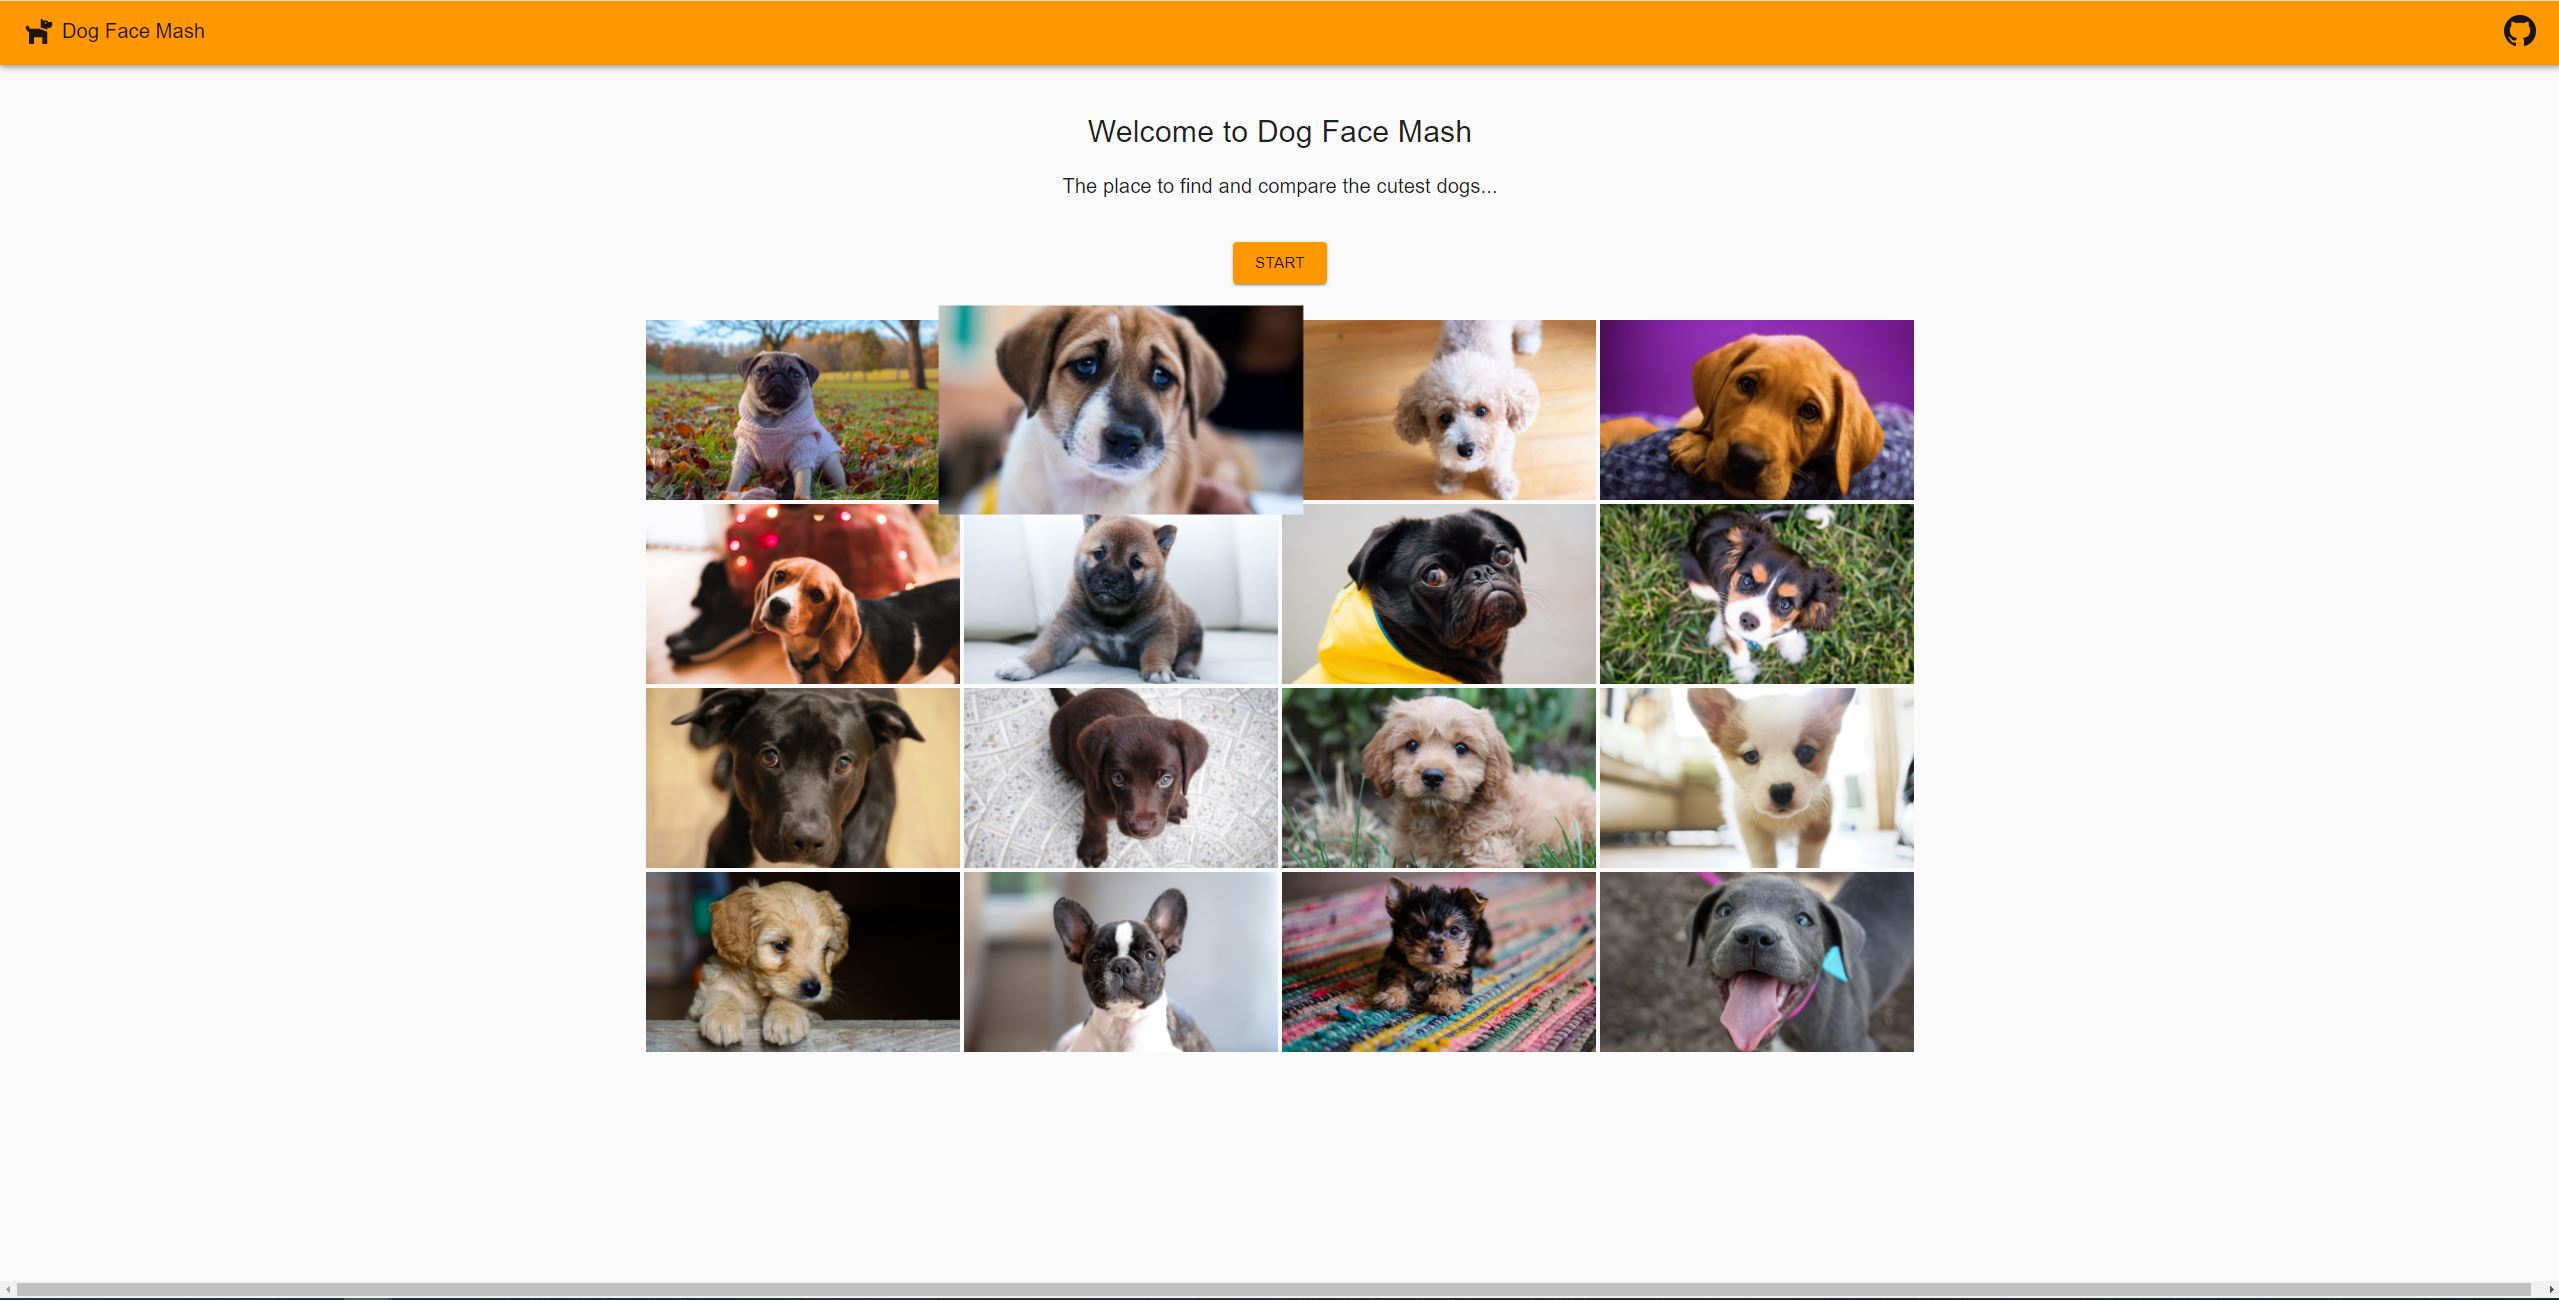
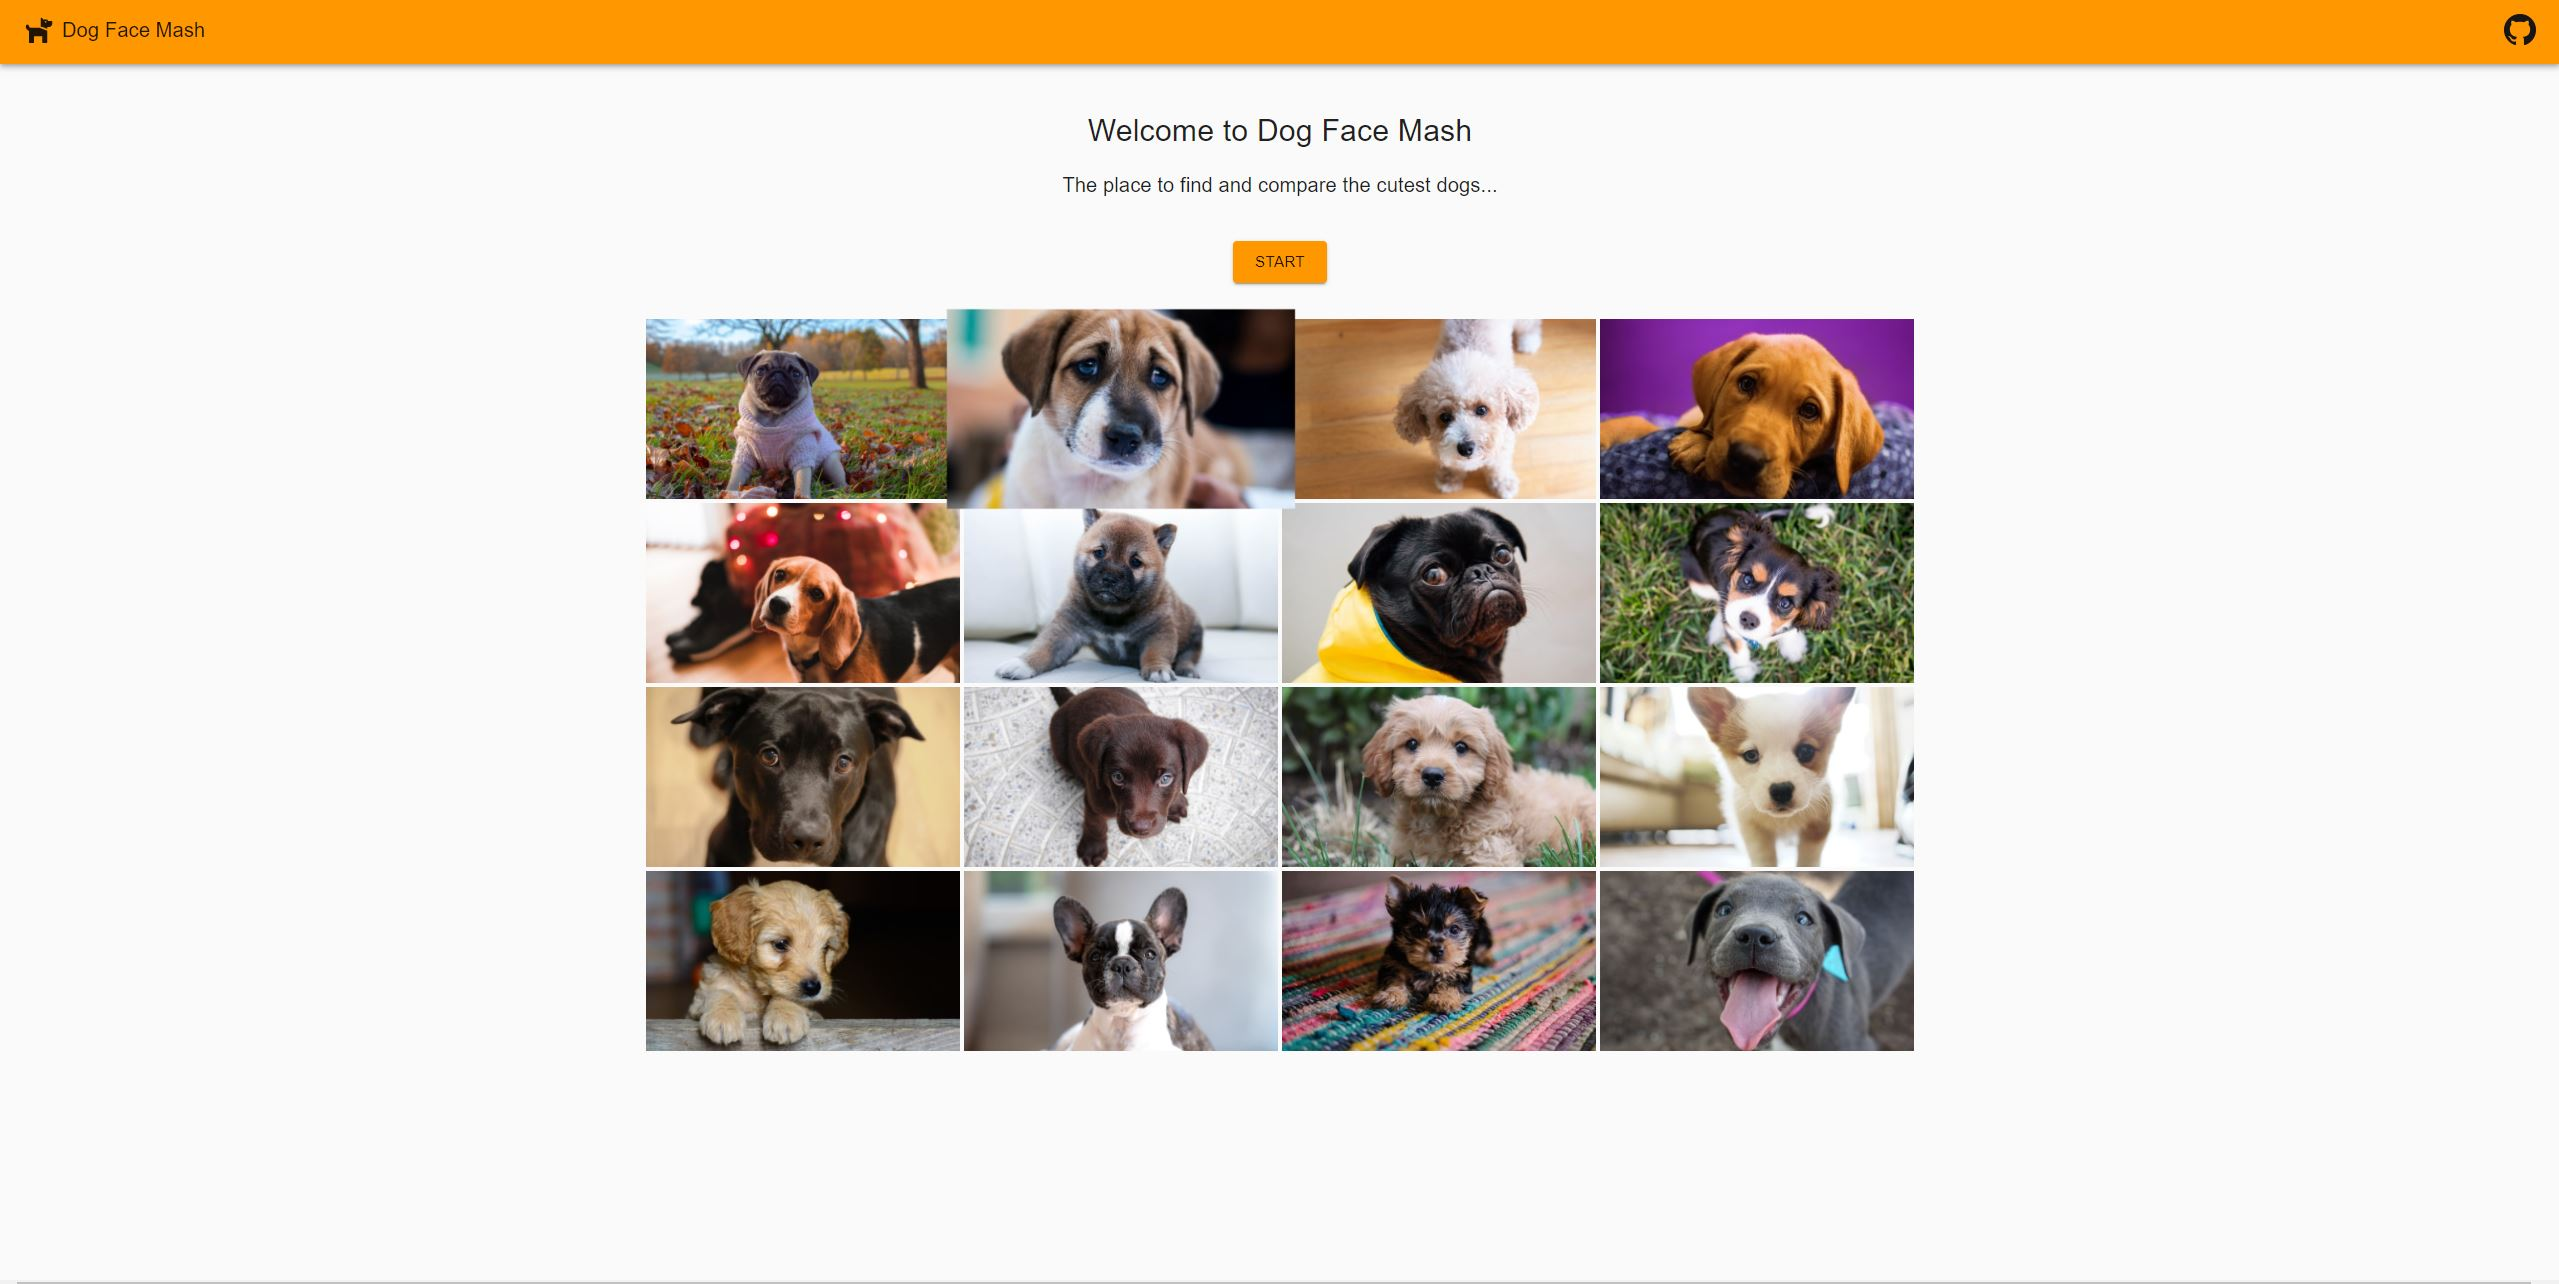
Add code links to prjects

diff --git a/index.html b/index.html
@@ -92,8 +92,7 @@
 				<div class="row">
 					<div class="col-4 col-12-mobile">
 						<article class="item">
-							<a href="https://dog-face-mash.herokuapp.com/" class="image fit"><img
-									src="/assets/images/dog-face-mash.jpg" alt="" /></a>
+							<img class="image fit" src="/assets/images/dog-face-mash.jpg" alt="" />
 							<header>
 								<h2>Dog Face Mash</h2>
 							</header>
@@ -103,40 +102,50 @@
 								The app idea is based on
 								FaceMash.</p>
 							<a href="https://dog-face-mash.herokuapp.com/" target="_blank"
-								class="button" style="margin:1.5rem;">View
+								class="button view-project">View
 								project</a>
+							</br>
+							<a href="https://github.com/Daneika/dog-face-mash" target="_blank"
+								class="view-code">View
+								Code</a>
 						</article>
 					</div>
 					<div class="col-4 col-12-mobile">
 						<article class="item">
-							<a href="https://daneika-recipe-box.herokuapp.com/"
-								class="image fit"><img src="/assets/images/recipe-box.jpg" alt="" /></a>
+							<img class="image fit" src="/assets/images/recipe-box.jpg" alt="" />
 							<header>
 								<h2>Recipe Box</h2>
 							</header>
 							<p class="app-description">A React app to search for recipes using
 								Spoonacular's API. Users
 								can search for multiple ingredients and will receive recipe
-								ideas, their duration and how many they serve.</p>
+								ideas, their duration and serving number.</p>
 							<a href="https://daneika-recipe-box.herokuapp.com/" target="_blank"
-								class="button" style="margin:1.5rem;">View
+								class="button view-project">View
 								project</a>
+							</br>
+							<a href="https://github.com/Daneika/recipe-box" target="_blank"
+								class="view-code">View
+								Code</a>
 						</article>
 					</div>
 					<div class="col-4 col-12-mobile">
 						<article class="item">
-							<a href="https://daneika-yelp-camp.herokuapp.com/"
-								class="image fit"><img src="/assets/images/yelp-camp.jpg" alt="" /></a>
+							<img class="image fit" src="/assets/images/yelp-camp.jpg" alt="" />
 							<header>
 								<h2>Yelp Camp</h2>
 							</header>
 							<p class="app-description">A simplfied version of Yelp for campsites
-								allowing users to add
-								new campgrounds, leave comments and edit information. Users must
-								sign up and be logged in before editing.</p>
+								allowing users to add new campgrounds, comment and edit information.
+								Users must
+								sign up and log in before editing.</p>
 							<a href="https://daneika-yelp-camp.herokuapp.com/" target="_blank"
-								class="button" style="margin:1.5rem;">View
+								class="button view-project">View
 								project</a>
+							</br>
+							<a href="https://github.com/Daneika/YelpCamp" target="_blank"
+								class="view-code">View
+								Code</a>
 						</article>
 					</div>
 				</div>
@@ -176,17 +185,14 @@
 		<!--Blog-->
 		<section id="blog" class="four">
 			<div class="container">
-
 				<header>
 					<h2>Blog</h2>
 				</header>
-
 				<a href="#" class="image featured"><img src="/assets/images/dancertodev-blog.jpg"
 						width="50%" height=50% alt="" /></a>
-
 				<p>A blog documenting my learning journey of going from a dancer to a developer.</p>
-				<a href="https://dancertodev.blogspot.com/" target="_blank"
-					class="button">Read more</a>
+				<a href="https://dancertodev.blogspot.com/" target="_blank" class="button">Read
+					more</a>
 			</div>
 		</section>
 
@@ -214,13 +220,6 @@
 
 	<!-- Footer -->
 	<div id="footer">
-
-		<!-- Copyright -->
-		<ul class="copyright">
-			<li>&copy; Untitled. All rights reserved.</li>
-			<li>Design: <a href="http://html5up.net">HTML5 UP</a></li>
-		</ul>
-
 	</div>
 
 	<!-- Scripts -->

diff --git a/assets/css/main.css b/assets/css/main.css
@@ -329,6 +329,7 @@ br.clear {
 
 .app-description {
   margin: 0.5rem;
+  font-size: 1.2rem;
 }
 
 /* Container */
@@ -2050,7 +2051,6 @@ button,
 .button {
   position: relative;
   display: inline-block;
-  font-size: 1.4rem;
   border-radius: 0.35em;
   color: #fff !important;
   text-decoration: none;
@@ -2098,6 +2098,16 @@ input[type="reset"]:active,
 button:active,
 .button:active {
   background-color: #7eaeac;
+}
+
+.view-project {
+  margin: 1.2rem 0 0.8rem 0;
+  font-size: 1.2rem;
+}
+
+.view-code {
+  font-size: 1.1rem;
+  color: #888;
 }
 
 /* Item */
